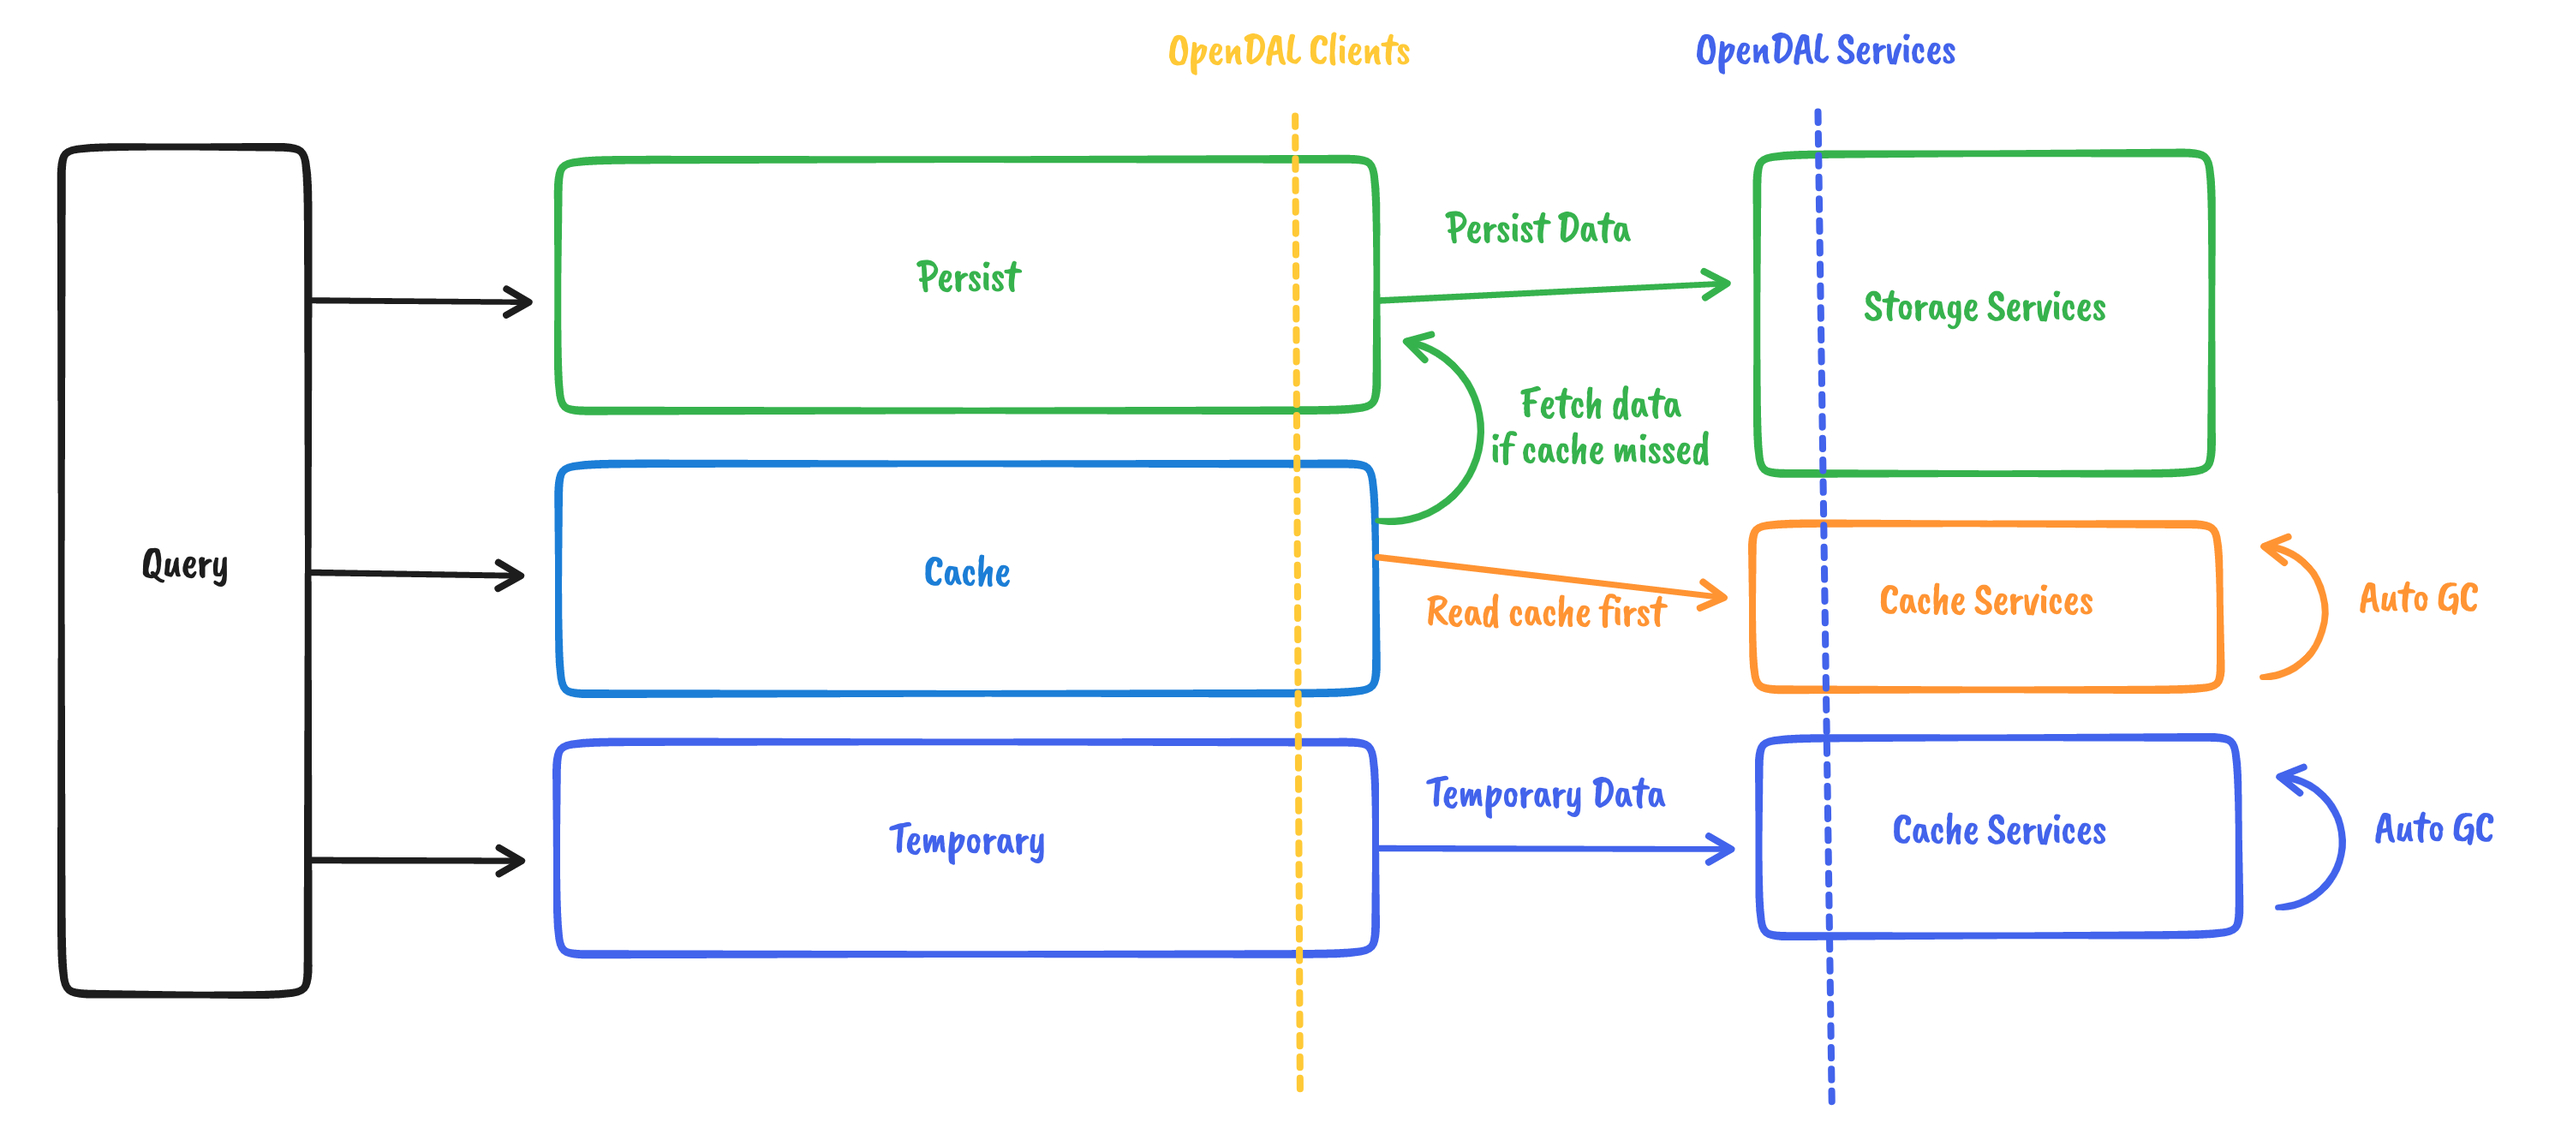
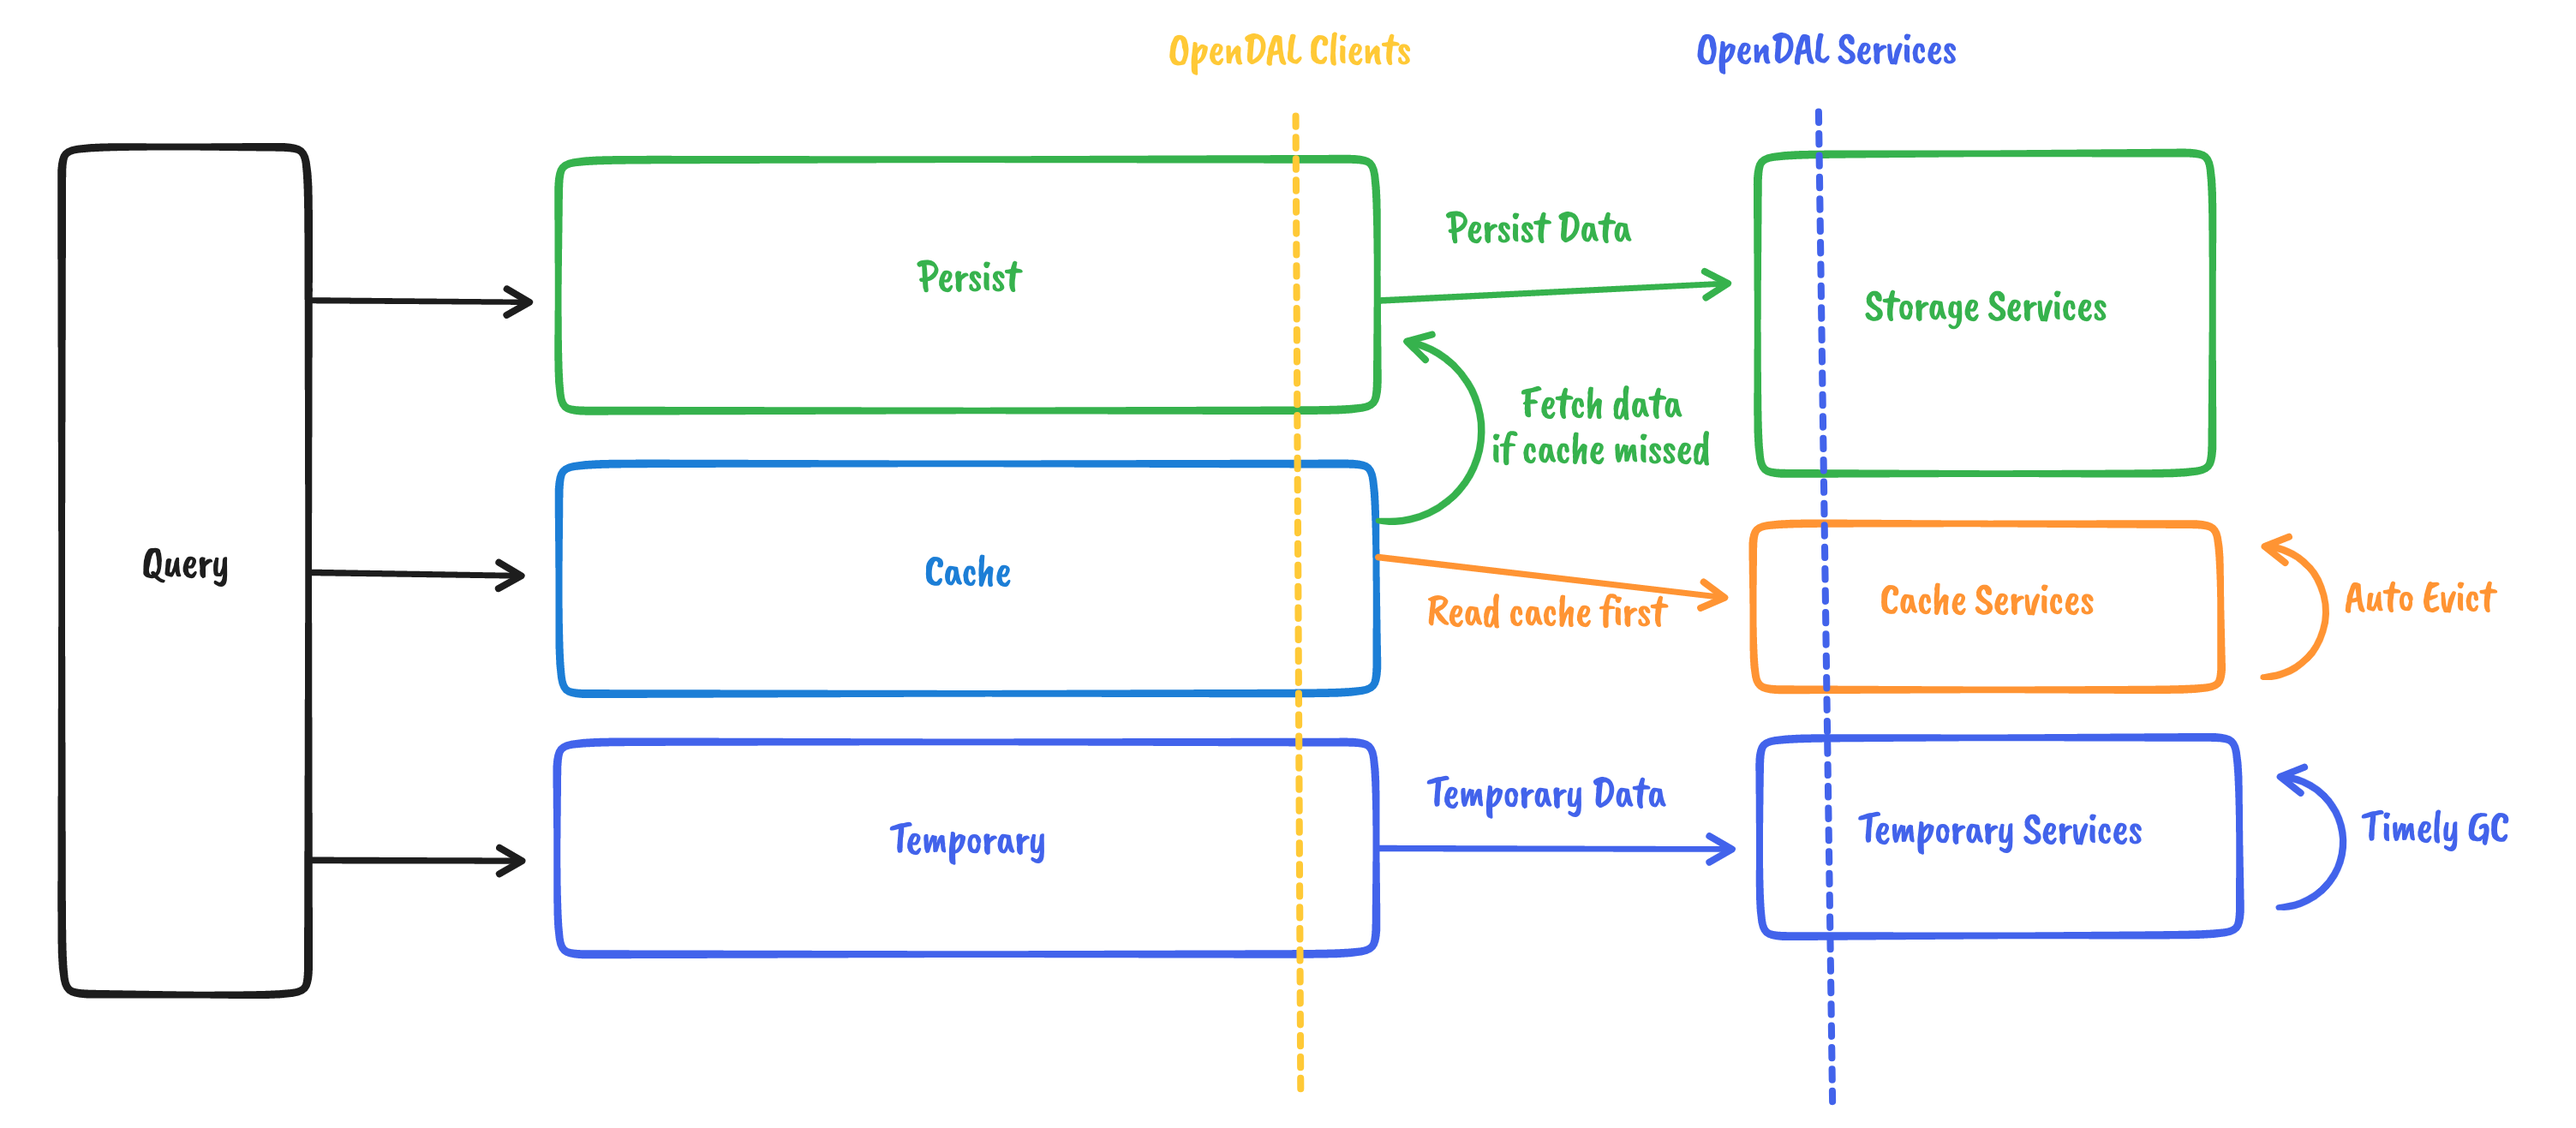
Address comments

diff --git a/docs/doc/60-contributing/03-rfcs/20220725-cache.md b/docs/doc/60-contributing/03-rfcs/20220725-cache.md
@@ -36,13 +36,15 @@ After introducing cache, the databend storage layer will be composed as follows:
 
 The query will maintain three OpenDAL operators:
 
-- Persist Operator: Read and write persist data from/into storage services **directly**.
-- Cache Operator: Read and write data via transparent caching.
-- Temporary Operator: Read and write temporary data from/into cache services.
+- `Persist Operator`: Read and write persist data from/into storage services **directly**.
+- `Cache Operator`: Read and write data via transparent caching.
+- `Temporary Operator`: Read and write temporary data from/into temporary storage which only store data with TTL.
 
-Storage services and cache services we mentioned here are both OpenDAL-supported services. The difference is cache services'
-backends could have their GC or background auto eviction logic, which means cache services is non-persist, a.k.a,
-volatile.
+Storage, cache, and temporary services we mentioned here are both OpenDAL-supported services. The difference is:
+
+- `Persist Services`: All data will be persisted until users delete them.
+- `Cache Services`: Backends could have their GC or background auto eviction logic, which means cache services is non-persist, a.k.a, volatile.
+- `Temporary Services`: Backend will be configured with TTL and timely delete old data.
 
 The query should never try to write persisted data to `Cache Operator` or `Temporary Operator`.
 
@@ -59,26 +61,25 @@ type = "fs"
 data_path = "/var/cache/databend/"
 ```
 
-Or they can cache data into Redis:
+Or they can cache data into distributed cache services like `opencache`:
 
 ```toml
 [cache]
-type = "redis"
+type = "opencache"
 
 [cache.redis]
-endpoint = "192.168.1.2"
-password = "PASSWORD"
+endpoints = ["192.168.1.2"]
 ```
 
-Temporary data could be shared crossing the whole cluster, so users must use distributed cache services instead of
-local fs or memory:
+Temporary data could be shared crossing the whole cluster, so users must use shared storage services like `redis` or `s3` instead of local fs or memory:
 
 ```toml
 [temporary]
-type = "opencache"
+type = "s3"
 
-[temporary.opencache]
-endpoints = ["192.168.1.2"]
+[temporary.s3]
+bucket = "temporary-data"
+endpoint = "http://127.0.0.1:9900"
 ```
 
 ### For Developers
@@ -87,7 +88,7 @@ As discussed before, developers now have three kinds of `Operator` to handle dif
 
 - `Persist`: Read and write data directly without caching logic, similar to `O_DIRECT`.
 - `Cache`: Read and write via transparent caching, similar to the kernel's page cache.
-- `Temporary`: Read and write temporary data to cache services, similar to Linux's `tmpfs`.
+- `Temporary`: Read and write temporary data to cache services, similar to Linux's `tmpfs`, old data could be removed timely.
 
 ## Reference-level explanation
 
@@ -124,9 +125,9 @@ The detailed implementation of `CacheLayer` will not discuss in this RFC.
 
 ### Temporary Operator
 
-The temporary Operator will connect to a distributed cache service that shares the same view for the whole cluster. The query can write temporary intermediate results here to share with other nodes.
+The temporary Operator will connect to a shared storage service that shares the same view for the whole cluster. The query can write temporary intermediate results here to share with other nodes.
 
-Most work should be down at the cache services side. We will not discuss this in this RFC.
+Most work should be down at the services side. We will not discuss this in this RFC.
 
 ## Drawbacks
 
@@ -148,4 +149,4 @@ None.
 
 ### OpenCache
 
-[OpenCache](https://github.com/datafuselabs/opencache) is an ongoing work from databend community to build a distributed cache services. OpenDAL will implement native support for `OpenCache` once its API is stable. After that, users can deploy and use OpenCache as `cache` or `temporary` storage.
+[OpenCache](https://github.com/datafuselabs/opencache) is an ongoing work from databend community to build a distributed cache services. OpenDAL will implement native support for `OpenCache` once its API is stable. After that, users can deploy and use OpenCache as `cache` storage.
